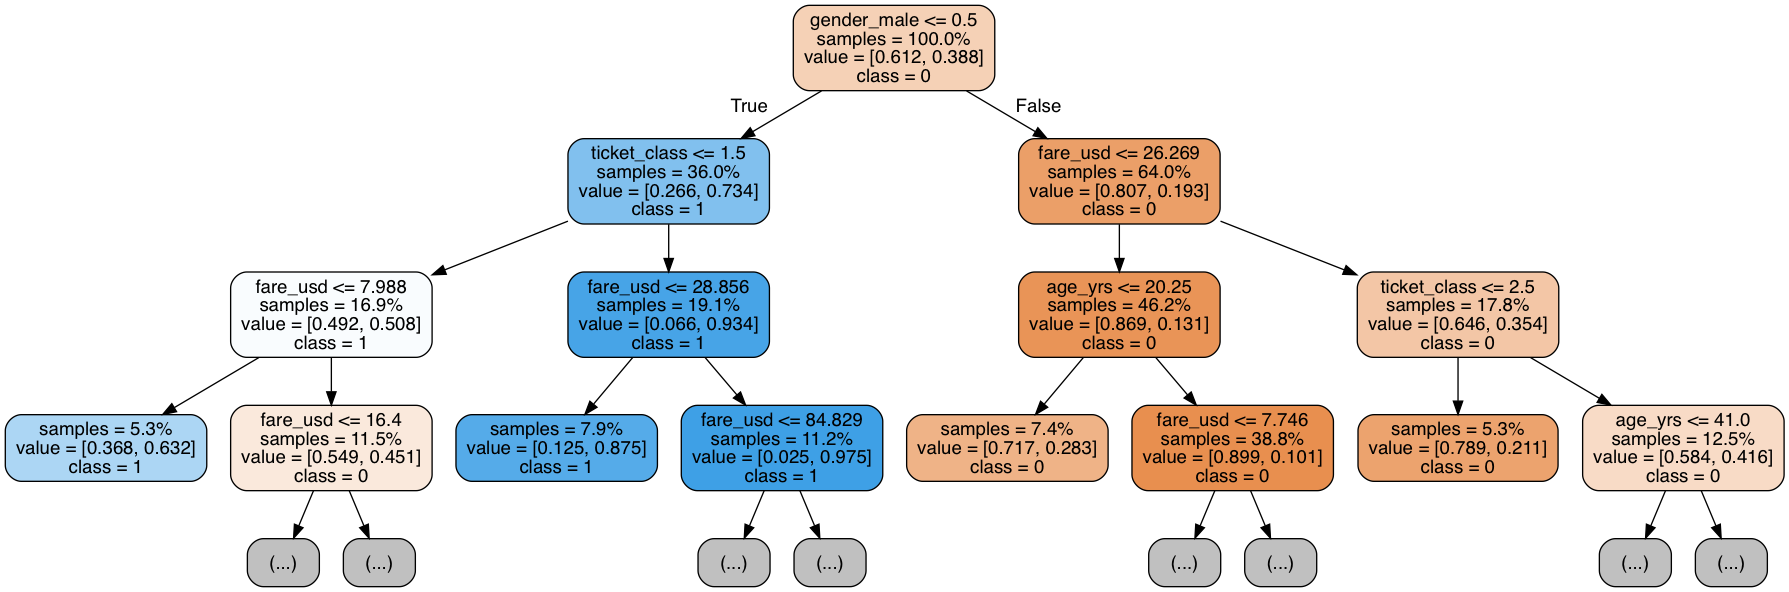
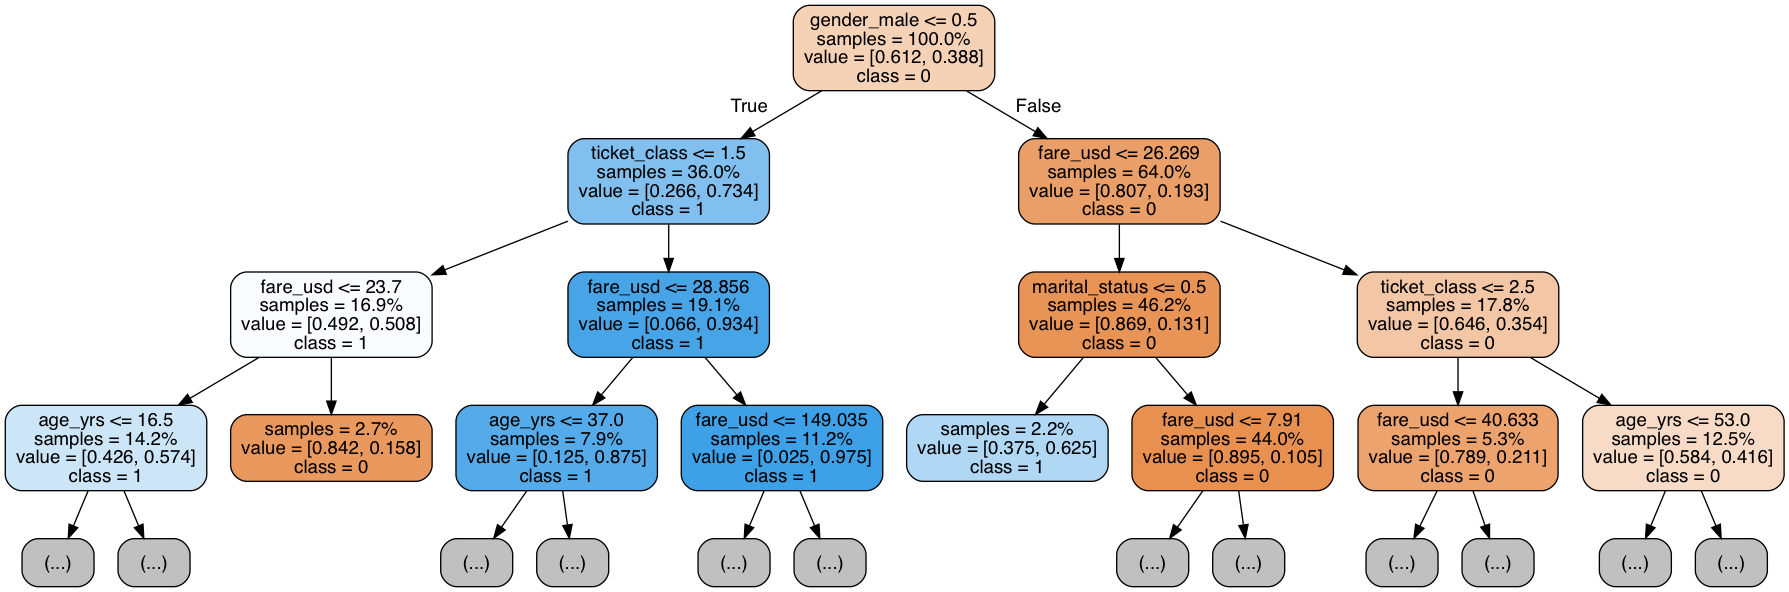
Grid search

diff --git a/app/classifier.py b/app/classifier.py
@@ -1,15 +1,18 @@
-# adapted from: https://github.com/LambdaSchool/DS-Unit-2-Kaggle-Challenge/blob/master/module1-decision-trees/LS_DS_221.ipynb
+# adapted from: https://github.com/LambdaSchool/DS-Unit-2-Kaggle-Challenge
 
 import os
+import json
+from pprint import pprint
 
 from category_encoders import OneHotEncoder # see: https://contrib.scikit-learn.org/categorical-encoding/onehot.html
 from category_encoders import OrdinalEncoder # see: https://contrib.scikit-learn.org/categorical-encoding/ordinal.html
 from sklearn.impute import SimpleImputer # see: https://scikit-learn.org/stable/modules/generated/sklearn.impute.SimpleImputer.html
 from sklearn.preprocessing import StandardScaler # see: https://scikit-learn.org/stable/modules/generated/sklearn.preprocessing.StandardScaler.html
-from sklearn.tree import DecisionTreeClassifier
+from sklearn.tree import DecisionTreeClassifier # see: https://scikit-learn.org/stable/modules/generated/sklearn.tree.DecisionTreeClassifier.html
 #from sklearn.ensemble import RandomForestClassifier
-from sklearn.pipeline import make_pipeline
-from sklearn.model_selection import GridSearchCV, RandomizedSearchCV
+from sklearn.pipeline import make_pipeline # see: https://scikit-learn.org/stable/modules/generated/sklearn.pipeline.make_pipeline.html
+from sklearn.model_selection import GridSearchCV # see: https://scikit-learn.org/stable/modules/generated/sklearn.model_selection.GridSearchCV.html
+#from sklearn.model_selection import RandomizedSearchCV
 
 from graphviz import Source # see: https://pypi.org/project/graphviz/
 from sklearn.tree import export_graphviz # see: https://scikit-learn.org/stable/modules/generated/sklearn.tree.export_graphviz.html
@@ -18,19 +21,12 @@ from app import REPORTS_DIR
 from app.importer import Importer
 
 TREE_VIEW_FILEPATH = os.path.join(REPORTS_DIR, "decision_tree.png")
+SEARCH_RESULTS_FILEPATH = os.path.join(REPORTS_DIR, "search_results.json")
 
 if __name__ == "__main__":
 
     importer = Importer()
     xtrain, ytrain, xval, yval = importer.training_and_validation_splits()
-
-    #one_hot_encoder = OneHotEncoder(use_cat_names=True, cols=["gender",
-    #    #"embarked_from_port", "salutation"
-    #])
-    #ordinal_encoder = OrdinalEncoder(cols=["ticket_class"], mapping=[{"col": "ticket_class", "mapping": {"UPPER":3, "MIDDLE":2, "LOWER":1}}])
-    #imputer = SimpleImputer() # strategy="median"
-    ##scaler = StandardScaler()
-    #model = DecisionTreeClassifier(random_state=89, min_samples_leaf=.05) # max_depth=5 OR min_samples_leaf=.05
 
     pipeline = make_pipeline(
         OneHotEncoder(use_cat_names=True, cols=["gender"]),
@@ -38,39 +34,60 @@ if __name__ == "__main__":
         SimpleImputer(),
         DecisionTreeClassifier(random_state=89, min_samples_leaf=.05)
     )
+    search_params = {
+        "simpleimputer__strategy": ["mean", "median"],
+        "decisiontreeclassifier__min_samples_leaf": (0.02, 0.05, 0.1),
+        "decisiontreeclassifier__max_depth": (1, 2, 4, 6, 10),
+    }
+    search = GridSearchCV(
+        pipeline,
+        param_grid=search_params,
+        scoring="accuracy", # "neg_mean_absolute_error",
+        n_jobs=-1, # -1 means using all processors
+        cv=5,
+        verbose=10,
+        return_train_score=True,
+    )
 
     print("-----------------")
     print("TRAINING...")
     print("-----------------")
-    #xtrain_one_hot_encoded = one_hot_encoder.fit_transform(xtrain)
-    #xtrain_ordinal_encoded = ordinal_encoder.fit_transform(xtrain_one_hot_encoded)
-    #xtrain_imputed = imputer.fit_transform(xtrain_ordinal_encoded)
-    #model.fit(xtrain_imputed, ytrain)
-    #print("MODEL CLASSES:", model.classes_)
-    #print("ACCURACY (TRAINING):", model.score(xtrain_imputed, ytrain))
-    pipeline.fit(xtrain, ytrain)
-    print("MODEL CLASSES:", pipeline.classes_)
-    print("ACCURACY (TRAINING):", pipeline.score(xtrain, ytrain))
-
-    #xval_one_hot_encoded = one_hot_encoder.transform(xval)
-    #xval_ordinal_encoded = ordinal_encoder.transform(xval_one_hot_encoded)
-    #xval_imputed = imputer.transform(xval_ordinal_encoded)
-    #print("ACCURACY (VALIDATION):", model.score(xval_imputed, yval))
-    print("ACCURACY (VALIDATION):", pipeline.score(xval, yval))
+    #pipeline.fit(xtrain, ytrain)
+    #print("MODEL CLASSES:", pipeline.classes_)
+    #print("ACCURACY (TRAINING):", pipeline.score(xtrain, ytrain))
+    #print("ACCURACY (VALIDATION):", pipeline.score(xval, yval))
+    search.fit(xtrain, ytrain)
+    print("-----------------")
+    print("MODEL CLASSES:", search.classes_)
+    print("ACCURACY (TRAINING):", search.score(xtrain, ytrain))
+    print("ACCURACY (VALIDATION):", search.score(xval, yval))
+    print("BEST PARAMS:")
+    pprint(search.best_params_)
+    print("BEST SCORE:", search.best_score_)
+    with open(SEARCH_RESULTS_FILEPATH, "w") as f:
+        f.write(json.dumps({
+            "best_score": search.best_score_,
+            "best_params": search.best_params_
+        }))
 
     #
     # INSPECTION...
     #
 
-    #encoded_columns = xval_ordinal_encoded.columns
-    #class_names = [str(class_name) for class_name in model.classes_]
-    model = pipeline.named_steps["decisiontreeclassifier"]
-    one_hot = pipeline.named_steps["onehotencoder"]
-    ordinal = pipeline.named_steps["ordinalencoder"]
+    print("-----------------")
+    print("GRAPHING DECISION TREE:")
+    print(os.path.abspath(TREE_VIEW_FILEPATH))
+    #model = pipeline.named_steps["decisiontreeclassifier"]
+    #one_hot = pipeline.named_steps["onehotencoder"]
+    #ordinal = pipeline.named_steps["ordinalencoder"]
+    model = search.best_estimator_.named_steps["decisiontreeclassifier"]
+    one_hot = search.best_estimator_.named_steps["onehotencoder"]
+    ordinal = search.best_estimator_.named_steps["ordinalencoder"]
     xval_encoded = one_hot.transform(xval)
     xval_encoded = ordinal.transform(xval_encoded)
+
     encoded_columns = xval_encoded.columns
-    class_names = [str(class_name) for class_name in model.classes_]
+    class_names = [str(class_name) for class_name in search.classes_]
     dot_data = export_graphviz(model,
         out_file=None,
         max_depth=3,

diff --git a/README.md b/README.md
@@ -36,7 +36,7 @@ python -m app.classifier
 
 ## Results
 
-Current Validation Accuracy: 86.5%
+Current Validation Accuracy: 87.1%
 
 Decision Tree Logic:
 
